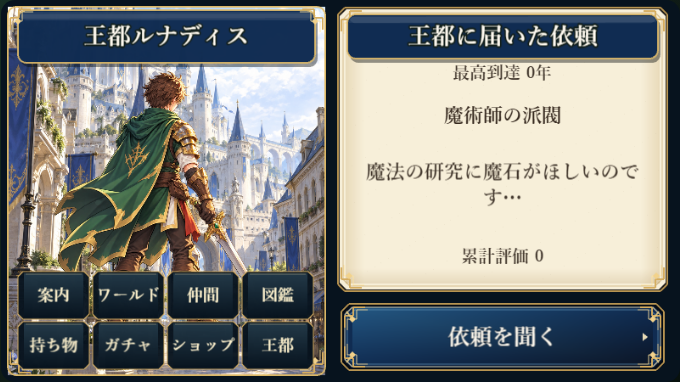
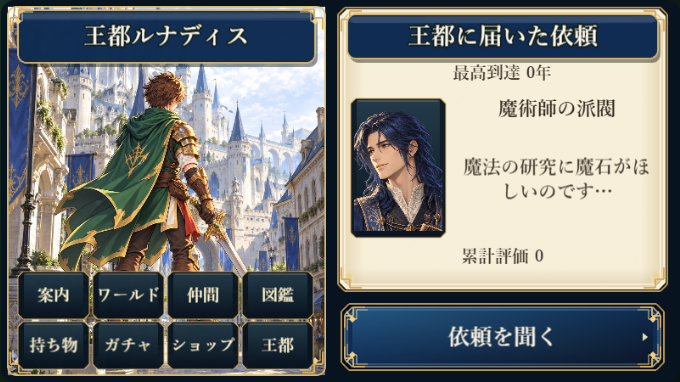
Show faction envoy beside landscape home request with bounded Japanese copy

Changed region(s): [[0.4941, 0.2592, 0.9574, 0.6335]]

diff --git a/games/karma-quest/e2e/game.spec.ts b/games/karma-quest/e2e/game.spec.ts
@@ -487,6 +487,31 @@ test("requester portraits follow every request in home and rotated dialogue", as
       Reflect.set(scene, "phase", "title"); Reflect.set(scene, "homeRequest", request);
     }, request);
     await expect.poll(portraits).toEqual([`kq-dialogue-${request.faction}-${request.faction === "warrior" ? "v3" : "v1"}`]);
+    await page.setViewportSize({ width: 800, height: 360 });
+    await expect.poll(() => page.locator("canvas").evaluate(node => (node as HTMLCanvasElement).width)).toBe(800);
+    await expect.poll(portraits).toEqual([`kq-dialogue-${request.faction}-${request.faction === "warrior" ? "v3" : "v1"}`]);
+    const copyBounds = await page.evaluate(() => {
+      const scene = window.__qaGame.scene.getScene("GameScene");
+      let bounds: { left: number; right: number; top: number; bottom: number } | null = null;
+      const visit = (node: Phaser.GameObjects.GameObject) => {
+        if (node.name === "landscape-home-request-body") {
+          const rect = (node as Phaser.GameObjects.Text).getBounds();
+          bounds = { left: rect.left, right: rect.right, top: rect.top, bottom: rect.bottom };
+        }
+        if ("list" in node) (node as Phaser.GameObjects.Container).list.forEach(visit);
+      };
+      scene.children.list.forEach(visit);
+      return bounds;
+    });
+    expect(copyBounds).not.toBeNull();
+    expect(copyBounds!.left).toBeGreaterThan(530);
+    expect(copyBounds!.right).toBeLessThan(780);
+    expect(copyBounds!.top).toBeGreaterThan(150);
+    expect(copyBounds!.bottom).toBeLessThan(280);
+    await page.setViewportSize({ width: 320, height: 568 });
+    await expect.poll(() => page.locator("canvas").evaluate(node => (node as HTMLCanvasElement).width)).toBe(450);
+    // Canvas resize precedes the scene update which activates portrait input.
+    await page.evaluate(() => new Promise<void>(resolve => requestAnimationFrame(() => requestAnimationFrame(() => resolve()))));
     await tapPoint(page, 225, 660);
     await expect.poll(() => phase(page)).toBe("karma");
     await page.waitForFunction(() => !window.__qaGame.scene.getScene("GameScene").children.list.some(child => child.depth >= 2000 && child.depth <= 2002));

diff --git a/games/karma-quest/src/conceptArt.ts b/games/karma-quest/src/conceptArt.ts
@@ -684,6 +684,13 @@ function buildLandscapeOverview(scene: Runtime, final: boolean): Phaser.GameObje
   const heading = text(scene, root, 591, 136, "", 23, "#35281e", "900", 338);
   const body = text(scene, root, 591, 218, "", 23, "#43382e", "700", 338);
   const footer = text(scene, root, 591, 302, "", 20, "#43382e", "700", 338);
+  if (!final) {
+    // Keep the envoy beside the request; reserve independent bounds for the copy.
+    hudPlate(scene, root, 468, 198, 112, 164);
+    requesterPortrait(scene, root, 416, 124, 104, 148, true);
+    heading.setPosition(655, 128).setWordWrapWidth(226, true);
+    body.setName("landscape-home-request-body").setPosition(655, 212).setWordWrapWidth(226, true).setFontSize(22);
+  }
   button(scene, root, 591, 397, 382, 80, final ? "もう一度旅に出る" : "依頼を聞く", 0x0758a4,
     () => invoke(scene, "startRun"));
   const frame = scene.add.graphics().lineStyle(2, 0xe3bd69, 0.96).strokeRoundedRect(8, 8, 374, 434, 10);
@@ -701,6 +708,7 @@ function buildLandscapeOverview(scene: Runtime, final: boolean): Phaser.GameObje
       const stats = deriveStats(scene.karma ?? initialKarma());
       [stats.atk, stats.def, stats.hp, stats.magic].forEach((value, i) => statValues[i]?.setText(String(value)));
     } else {
+      (root.getData("refreshRequester") as (request?: KarmaRequest) => void)(scene.homeRequest);
       status.setText(`最高到達 ${loadBestStage()}年`);
       heading.setText(scene.homeRequest ? FACTION_LABEL[scene.homeRequest.faction] : "新しい依頼");
       body.setText(scene.homeRequest?.text ?? "王都であなたの決断を待っています。");

diff --git a/docs/review/karma-completion-review.md b/docs/review/karma-completion-review.md
@@ -10,6 +10,12 @@
 
 ## 追加パターン
 
+### 横ホームの依頼者欄
+
+右側の依頼紙面に派閥の肖像を追加。本文は隣の独立領域で日本語を折り返し、縦横回転でも同じ依頼者を表示する。[横ホーム実画面](karma-compact-home-landscape.png)。全8依頼の横ホーム表示と本文の枠内収まりをE2E対象に追加。
+
+型チェック・Lint・ビルド・単体39件と関連E2E 8件成功。追加の本文領域検査も再実行で成功。回転時はキャンバスサイズ変更後の描画更新を待って入力するようテストを調整した。
+
 ### ホームの肖像とナビの仕上げ
 
 主人公HUDと派閥の依頼者の小さな肖像を胸上へ寄せ、顔の存在感を改善。依頼と図鑑のアイコンを印章付き依頼書・開いた本の塗り形状へ変更。文字・タップ領域・会話の人物配置は維持。[更新ホーム](karma-compact-home.png) / [モック比較](karma-home-comparison.png)。

diff --git a/docs/design/karma-screen-blueprints.md b/docs/design/karma-screen-blueprints.md
@@ -34,3 +34,6 @@
 320×568、360×640、375×667、390×844、430×932、800×360、844×390、932×430、768×1024、1024×768を対象とする。Canvasの収まりと比率、依頼・結果の可読性、縦横回転、押下取消、連打、情報モーダル、12年間の実タップ進行を確認する。実機のノッチ・ブラウザバー・音・長時間動作は未検証。
 
 [確認画像と検証記録](../review/karma-completion-review.md)
+## 横ホームの依頼者欄（2026-09-18追記）
+
+800×450の右側紙面に、肖像枠中心(468,198)、112×164を配置。肖像は(416,124)、104×148、上部60%を同率トリミング。派閥見出し中心(655,128)、本文中心(655,212)、幅226。本文22px、日本語の文字単位折り返しを維持。最高到達と累計評価、下部CTAの位置は維持する。年代記の配置には適用しない。
